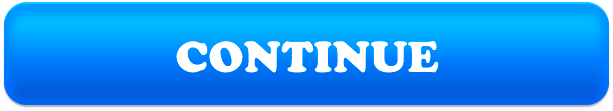
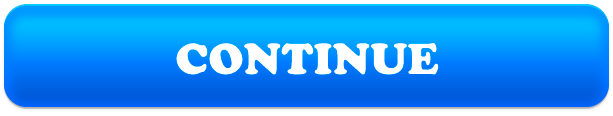
Fixed blurred images

diff --git a/cocos2dx/label_nodes/CCLabelBMFont.cpp b/cocos2dx/label_nodes/CCLabelBMFont.cpp
@@ -773,6 +773,17 @@ void LabelBMFont::setString(unsigned short *newString, bool needUpdateLabel)
     if (needUpdateLabel) {
         updateLabel();
     }
+    
+    Size size = this->getContentSize();
+    if(int(size.width) % 2 != 0) {
+        size.width += 1;
+    }
+    
+    if(int(size.height) % 2 != 0) {
+        size.height += 1;
+    }
+    
+    this->setContentSize(size);
 }
 
 const char* LabelBMFont::getString(void) const
